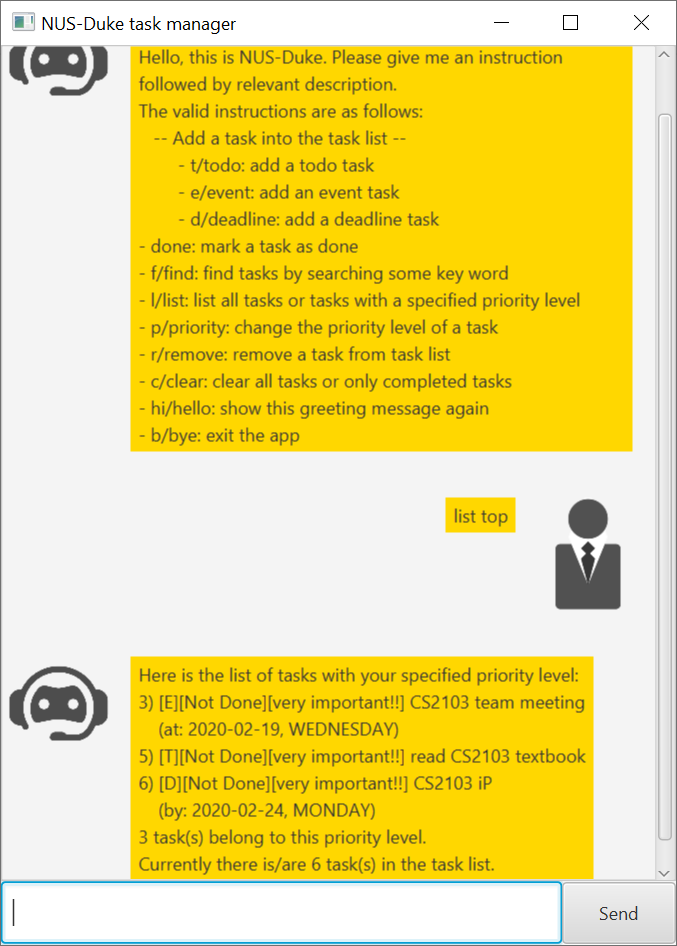
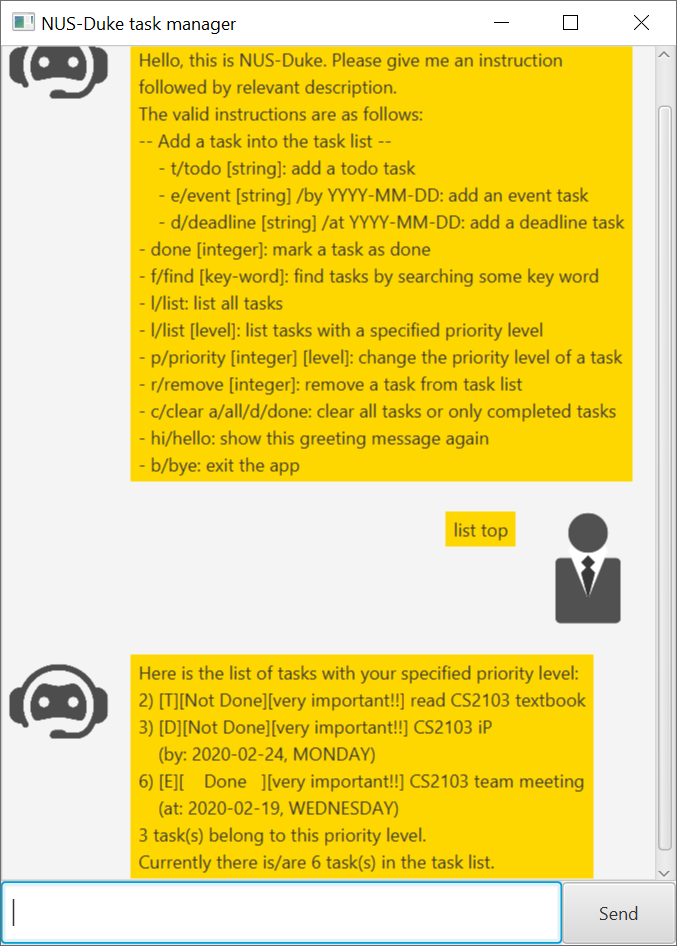
change package name to follow checkstyle standard

diff --git a/src/main/java/liaomeng/duke/Ui.java b/src/main/java/liaomeng/duke/Ui.java
@@ -1,4 +1,4 @@
-package e0148811.duke;
+package liaomeng.duke;
 
 public class Ui {
     TaskList tasks;
@@ -44,8 +44,10 @@ public class Ui {
         throw new DukeException(FORMAT_CORRECTION + format + ".");
     }
 
-    public void throwIOException() throws DukeException {
-        throw new DukeException("IOException occurs.");
+    public void throwIoException() throws DukeException {
+        throw new DukeException("IOException occurs.\nYou may have placed the application in a folder "
+                + "that requires administrator permission to read and write files. "
+                + "Please move the application to another folder and try again.");
     }
 
     public void throwOtherException(String s) throws DukeException {
@@ -67,16 +69,17 @@ public class Ui {
 
     public static String showValidInstructions() {
         String output = "The valid instructions are as follows:\n";
-        output += "   -- Add a task into the task list --\n";
-        output += "        - t/todo: add a todo task\n";
-        output += "        - e/event: add an event task\n";
-        output += "        - d/deadline: add a deadline task\n";
-        output += "- done: mark a task as done\n";
-        output += "- f/find: find tasks by searching some key word\n";
-        output += "- l/list: list all tasks or tasks with a specified priority level\n";
-        output += "- p/priority: change the priority level of a task\n";
-        output += "- r/remove: remove a task from task list\n";
-        output += "- c/clear: clear all tasks or only completed tasks\n";
+        output += "-- Add a task into the task list --\n";
+        output += "    - t/todo [string]: add a todo task\n";
+        output += "    - e/event [string] /by YYYY-MM-DD: add an event task\n";
+        output += "    - d/deadline [string] /at YYYY-MM-DD: add a deadline task\n";
+        output += "- done [integer]: mark a task as done\n";
+        output += "- f/find [key-word]: find tasks by searching some key word\n";
+        output += "- l/list: list all tasks\n";
+        output += "- l/list [level]: list tasks with a specified priority level\n";
+        output += "- p/priority [integer] [level]: change the priority level of a task\n";
+        output += "- r/remove [integer]: remove a task from task list\n";
+        output += "- c/clear a/all/d/done: clear all tasks or only completed tasks\n";
         output += "- hi/hello: show this greeting message again\n";
         output += "- b/bye: exit the app\n";
         return output;

diff --git a/src/main/java/liaomeng/duke/Task.java b/src/main/java/liaomeng/duke/Task.java
@@ -1,4 +1,4 @@
-package e0148811.duke;
+package liaomeng.duke;
 
 public abstract class Task {
     static String DONE = "    Done   ";
@@ -23,19 +23,18 @@ public abstract class Task {
 
     @Override
     public String toString() {
-        String priorityIndication = " ";
+        String priorityIndication;
         switch (level) {
         case LOW:
             priorityIndication = "[  not important ] ";
-            break;
-        case NORMAL:
-            priorityIndication = "[      ordinary      ] ";
             break;
         case HIGH:
             priorityIndication = "[     important!    ] ";
             break;
         case TOP:
-            priorityIndication = "[very important!!] ";
+        default:
+            priorityIndication = "[      ordinary      ] ";
+            break;
         }
         if (isDone) {
             return "[" + Task.DONE + "]" + priorityIndication + task;
@@ -45,19 +44,20 @@ public abstract class Task {
     }
 
     public String toSimplerString() {
-        String priorityIndication = " ";
+        String priorityIndication;
         switch (level) {
         case LOW:
             priorityIndication = "l";
-            break;
-        case NORMAL:
-            priorityIndication = "n";
             break;
         case HIGH:
             priorityIndication = "h";
             break;
         case TOP:
             priorityIndication = "t";
+            break;
+        default:
+            priorityIndication = "n";
+            break;
         }
         String isDone;
         if (this.isDone) {

diff --git a/src/main/java/liaomeng/duke/Storage.java b/src/main/java/liaomeng/duke/Storage.java
@@ -1,4 +1,4 @@
-package e0148811.duke;
+package liaomeng.duke;
 
 import java.io.BufferedReader;
 import java.io.FileReader;
@@ -51,16 +51,18 @@ public class Storage {
         }
         switch (lineByWord[0]) {
         case "T":
-            assert lineByWord.length == 4: "A correct line description should contain 4 parts separated by \"//\"";
+            assert lineByWord.length == 4 : "A correct line description should contain 4 parts separated by \"//\"";
             list.add(new Todo(isDone, lineByWord[3], level));
             break;
         case "D":
-            assert lineByWord.length == 5: "A correct line description should contain 5 parts separated by \"//\"";
+            assert lineByWord.length == 5 : "A correct line description should contain 5 parts separated by \"//\"";
             list.add(new Deadline(isDone, lineByWord[3], LocalDate.parse(lineByWord[4]), level));
             break;
         case "E":
-            assert lineByWord.length == 5: "A correct line description should contain 5 parts separated by \"//\"";
+            assert lineByWord.length == 5 : "A correct line description should contain 5 parts separated by \"//\"";
             list.add(new Event(isDone, lineByWord[3], LocalDate.parse(lineByWord[4]), level));
+            break;
+        default:
             break;
         }
     }
@@ -73,7 +75,7 @@ public class Storage {
             }
             writer.close();
         } catch (IOException e) {
-            ui.throwIOException();
+            ui.throwIoException();
         }
 
     }

diff --git a/src/main/java/liaomeng/duke/Logic.java b/src/main/java/liaomeng/duke/Logic.java
@@ -1,4 +1,4 @@
-package e0148811.duke;
+package liaomeng.duke;
 
 import java.time.LocalDate;
 import java.time.format.DateTimeParseException;
@@ -114,16 +114,16 @@ public class Logic {
 
     private String clearList(String[] instructionByWord, int lengthOfArray) throws DukeException {
         if (lengthOfArray != 2) {
-            ui.throwWrongFormatException("\"clear a/all\" (if you want to remove all the tasks) " +
-                    "OR \"clear d/done\" (if you only want to remove tasks that are marked done)");
+            ui.throwWrongFormatException("\"clear a/all\" (if you want to remove all the tasks) "
+                    + "OR \"clear d/done\" (if you only want to remove tasks that are marked done)");
         } else {
             if (instructionByWord[1].contains("a")) {
                 return clearAllTasks();
             } else if (instructionByWord[1].contains("d")) {
                 return clearCompletedTasks();
             } else {
-                ui.throwWrongFormatException("\"clear (all)\" (if you want to remove all tasks) " +
-                        "OR \"clear d/done\" (if you only want to remove tasks that are marked done)");
+                ui.throwWrongFormatException("\"clear (all)\" (if you want to remove all tasks) "
+                        + "OR \"clear d/done\" (if you only want to remove tasks that are marked done)");
             }
         }
         return "";

diff --git a/src/main/java/liaomeng/duke/TaskList.java b/src/main/java/liaomeng/duke/TaskList.java
@@ -1,4 +1,4 @@
-package e0148811.duke;
+package liaomeng.duke;
 
 import java.util.ArrayList;
 import java.util.List;
@@ -32,8 +32,8 @@ public class TaskList {
     }
 
     public String printListBasedOnPriority(PriorityLevel level) {
-        StringBuilder output = new StringBuilder("Here is the list of tasks " +
-                "with your specified priority level:\n");
+        StringBuilder output = new StringBuilder("Here is the list of tasks "
+                + "with your specified priority level:\n");
         int count = addAndCountTasksWithGivenPriority(level, output);
         output.append(getNumOfSelectedTasks(count));
         output.append(getTotalNumOfTasks());

diff --git a/src/test/java/liaomeng/duke/DeadlineTest.java b/src/test/java/liaomeng/duke/DeadlineTest.java
@@ -1,0 +1,16 @@
+package liaomeng.duke;
+
+import org.junit.jupiter.api.Test;
+
+import java.time.LocalDate;
+
+import static org.junit.jupiter.api.Assertions.assertEquals;
+
+public class DeadlineTest {
+    @Test
+    public void stringRepresentation() {
+        LocalDate date = LocalDate.parse("2020-02-02");
+        Deadline dl = new Deadline("test", date);
+        assertEquals("[D][Not Done] test (by: 2020-02-02, SUNDAY)", dl.toString());
+    }
+}

diff --git a/src/main/java/Duke.java b/src/main/java/Duke.java
@@ -1,9 +1,10 @@
-import e0148811.duke.DukeException;
-import e0148811.duke.Logic;
-import e0148811.duke.Parser;
-import e0148811.duke.Storage;
-import e0148811.duke.TaskList;
-import e0148811.duke.Ui;
+import liaomeng.duke.DukeException;
+import liaomeng.duke.Logic;
+import liaomeng.duke.Parser;
+import liaomeng.duke.Storage;
+import liaomeng.duke.TaskList;
+import liaomeng.duke.Ui;
+
 
 public class Duke {
     private boolean isClosed = false;

diff --git a/src/test/java/liaomeng/duke/TaskListTest.java b/src/test/java/liaomeng/duke/TaskListTest.java
@@ -1,0 +1,14 @@
+package liaomeng.duke;
+
+import org.junit.jupiter.api.Test;
+
+import static org.junit.jupiter.api.Assertions.assertEquals;
+
+public class TaskListTest {
+    @Test
+    public void getNoOfTasks_emptyList_reportZeroTask() {
+        TaskList list = new TaskList();
+        String expected = "Currently there is/are 0 task(s) in the list.";
+        assertEquals(expected, list.getTotalNumOfTasks());
+    }
+}

diff --git a/src/main/java/liaomeng/duke/Todo.java b/src/main/java/liaomeng/duke/Todo.java
@@ -1,4 +1,4 @@
-package e0148811.duke;
+package liaomeng.duke;
 
 public class Todo extends Task {
     public Todo(boolean isDone, String description, PriorityLevel level) {

diff --git a/src/main/java/MainWindow.java b/src/main/java/MainWindow.java
@@ -1,4 +1,4 @@
-import e0148811.duke.Ui;
+import liaomeng.duke.Ui;
 import javafx.animation.PauseTransition;
 import javafx.application.Platform;
 import javafx.fxml.FXML;

diff --git a/src/main/java/liaomeng/duke/DukeException.java b/src/main/java/liaomeng/duke/DukeException.java
@@ -1,4 +1,4 @@
-package e0148811.duke;
+package liaomeng.duke;
 
 public class DukeException extends Exception {
     public DukeException(String message) {

diff --git a/src/main/java/liaomeng/duke/PriorityLevel.java b/src/main/java/liaomeng/duke/PriorityLevel.java
@@ -1,4 +1,4 @@
-package e0148811.duke;
+package liaomeng.duke;
 
 public enum PriorityLevel {
     LOW, NORMAL, HIGH, TOP
